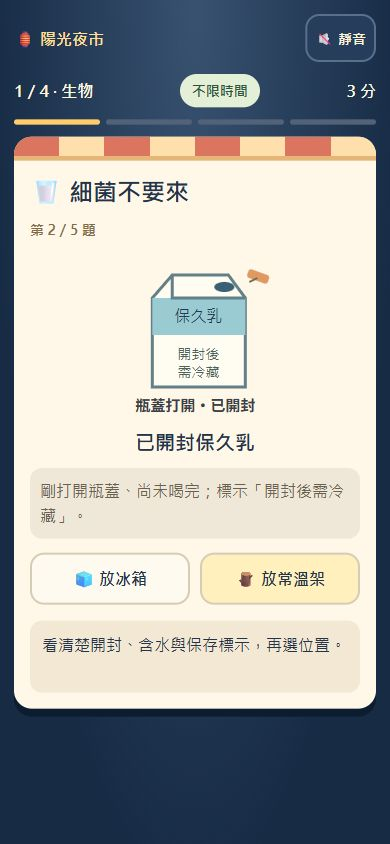
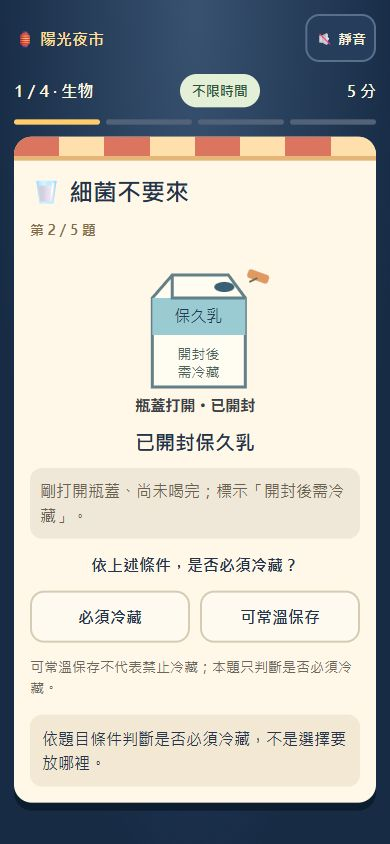
fix: ask whether foods require refrigeration rather than storage location

Changed region(s): [[0.0308, 0.6469, 0.9846, 0.955], [0.8923, 0.0924, 0.9231, 0.1232]]

diff --git a/src/data.js b/src/data.js
@@ -1,10 +1,10 @@
 export const stages = [
- {name:'細菌不要來',subject:'生物',icon:'🥛',tip:'同一種食物，開封、泡發後的保存方式可能不同。低溫能減緩細菌繁殖，不保證滅菌！',questions:[
- {name:'未開封保久乳',art:'milk-sealed',condition:'包裝完整、未開封；產品標示「可常溫保存」。',answer:'shelf',hint:'這盒保久乳經適當處理且包裝完整，標示允許未開封常溫保存。'},
- {name:'已開封保久乳',art:'milk-open',condition:'剛打開瓶蓋、尚未喝完；標示「開封後需冷藏」。',answer:'cold',hint:'保久乳開封後，原本的常溫保存條件已改變，請依標示冷藏。'},
- {name:'未開封乾香菇',art:'mushroom-dry',condition:'香菇乾燥、密封袋完整；標示「存放陰涼乾燥處」。',answer:'shelf',hint:'保持乾燥且密封完整的乾香菇，可依標示放在陰涼乾燥的常溫架。'},
- {name:'泡發後香菇',art:'mushroom-soaked',condition:'已泡水、瀝乾放入備料盒；暫不烹調，預計稍後使用。',answer:'cold',hint:'乾香菇泡發後含水量增加，暫不使用時應冷藏並儘快烹調。'},
- {name:'切開的西瓜',art:'watermelon-cut',condition:'已切成數片，切面覆蓋保鮮膜；暫不食用。',answer:'cold',hint:'切開後即使覆膜，仍需要冷藏並儘快食用，覆膜不等於滅菌。'}
+ {name:'細菌不要來',subject:'生物',icon:'🥛',tip:'開封、泡發後，是否必須冷藏可能不同。依保存條件判斷；低溫能減緩細菌繁殖，不保證滅菌！',questions:[
+ {name:'未開封保久乳',art:'milk-sealed',condition:'包裝完整、未開封；產品標示「可常溫保存」。',answer:'room-ok',hint:'這盒保久乳不必冷藏也可依標示保存。選「可常溫保存」；這不代表放冰箱就是錯誤。'},
+ {name:'已開封保久乳',art:'milk-open',condition:'剛打開瓶蓋、尚未喝完；標示「開封後需冷藏」。',answer:'required',hint:'開封後，原本可常溫保存的條件已改變；依這盒產品標示，必須冷藏。'},
+ {name:'未開封乾香菇',art:'mushroom-dry',condition:'香菇乾燥、密封袋完整；標示「存放陰涼乾燥處」。',answer:'room-ok',hint:'這袋乾香菇依標示可存放陰涼乾燥處，沒有必須冷藏的條件；不是判斷能不能放冰箱。'},
+ {name:'泡發後香菇',art:'mushroom-soaked',condition:'已泡水、瀝乾放入備料盒；暫不烹調，預計稍後使用。',answer:'required',hint:'泡發後含水量增加，這份暫不烹調的香菇需要冷藏，並儘快烹調。'},
+ {name:'切開的西瓜',art:'watermelon-cut',condition:'已切成數片，切面覆蓋保鮮膜；暫不食用。',answer:'required',hint:'這份切片西瓜暫不食用，需要冷藏並儘快食用；覆膜不等於滅菌。'}
  ].map(q=>({...q,first:5,retry:3}))},
  {name:'槓桿大力士',subject:'物理',icon:'📦',tip:'移動支點，比較兩邊力矩。相等是平衡，也能通過挑戰；施力力矩較大才會抬起貨箱。',questions:[
  {mass:12,force:6,length:6,first:5,retry:3}, {mass:18,force:6,length:8,first:10,retry:5}, {mass:10,force:6,length:8,first:10,retry:5}]},

diff --git a/src/app.js b/src/app.js
@@ -38,7 +38,7 @@ function leverNumbers(q, pivot) {
 
 function tutorial(s) {
   let scene = '';
-  if (game.stage === 0) scene = `<div class="tutorial-food">${foodArt(stages[0].questions[0])}</div><p>看包裝、看狀態，再決定保存位置。</p>`;
+  if (game.stage === 0) scene = `<div class="tutorial-food">${foodArt(stages[0].questions[0])}</div><p>看包裝與食物狀態，判斷是否必須冷藏。</p><p>「可常溫保存」不代表「不能冷藏」。<br>這裡判斷的是冷藏的必要性。</p>`;
   if (game.stage === 1) scene = `<div class="lever-demo">${leverDiagram({ mass: 12, force: 6, length: 6 }, 2, 'balance')}</div>
     <div class="math">6 × 4 = 24 kgf·m<br>12 × 2 = 24 kgf·m</div><p>24＝24：力矩平衡，挑戰通過。<br>施力力矩較大：才會抬起貨箱。</p>`;
   if (game.stage === 2) scene = '<div class="paper-demo"><span class="paper blue to-red"></span> 遇酸 → 紅色<br><span class="paper red to-blue"></span> 遇鹼 → 藍色</div><p>中性：紅、藍試紙都維持原色</p>';
@@ -49,7 +49,7 @@ function tutorial(s) {
 }
 
 const planetClasses = { 水星: 'mercury', 金星: 'venus', 地球: 'earth', 火星: 'mars', 木星: 'jupiter', 土星: 'saturn', 天王星: 'uranus', 海王星: 'neptune' };
-const defaultHints = ['看清楚開封、含水與保存標示，再選位置。', '按左右移動支點，再按「用力！」測試。', '選試紙 → 點液體 → 判斷性質。', '點擊行星，發射科學光束！'];
+const defaultHints = ['依題目條件判斷是否必須冷藏，不是選擇要放哪裡。', '按左右移動支點，再按「用力！」測試。', '選試紙 → 點液體 → 判斷性質。', '點擊行星，發射科學光束！'];
 
 function feedback() {
   const success = ['feedback', 'practice-feedback'].includes(game.phase);
@@ -68,8 +68,10 @@ function play() {
   const heading = `<div class="question-line">${game.practicing ? '引導練習 · 不計分' : `第 ${game.question + 1}／${s.questions.length} 題`}</div>`;
   let content = '';
   if (game.stage === 0) {
-    content = `<div class="food-scene ${locked ? `food-slide to-${q.answer}` : ''}">${foodArt(q)}<h2>${q.name}</h2><p class="food-condition">${q.condition}</p></div>
-      <div class="choices two">${button('🧊 放冰箱', 'cold', locked)}${button('🪵 放常溫架', 'shelf', locked)}</div>`;
+    content = `<div class="food-scene ${locked ? 'food-confirmed' : ''}">${foodArt(q)}<h2>${q.name}</h2><p class="food-condition">${q.condition}</p></div>
+      <p class="food-task"><strong>依上述條件，是否必須冷藏？</strong></p>
+      <div class="choices two">${button('必須冷藏', 'required', locked)}${button('可常溫保存', 'room-ok', locked)}</div>
+      <p class="science-note">可常溫保存不代表禁止冷藏；本題只判斷是否必須冷藏。</p>`;
   }
   if (game.stage === 1) {
     // Feedback and controls precede the longer explanation, so taps have a visible result.

diff --git a/test/game.test.js b/test/game.test.js
@@ -70,17 +70,17 @@ test('old 45/70/55/55 boundaries cannot advance unanswered questions', () => {
   const s = setup(); s.g.start(); s.g.begin();
   for (const ms of [45000, 70000, 55000, 55000, 1000000]) s.advance(ms);
   assert.equal(s.g.stage, 0); assert.equal(s.g.question, 0); assert.equal(s.g.score, 0);
-  assert.equal(s.g.answer('shelf'), true); assert.equal(s.g.score, 5);
+  assert.equal(s.g.answer('room-ok'), true); assert.equal(s.g.score, 5);
   s.advance(750); assert.equal(s.g.question, 0); s.g.next(); assert.equal(s.g.question, 1);
 });
 
 test('no answering before explicit tutorial start; queued animation click cannot answer next question', () => {
   const s = setup(); s.g.start();
-  assert.equal(s.g.answer('shelf'), false);
+  assert.equal(s.g.answer('room-ok'), false);
   s.g.begin(); solve(s);
   // Clock advances without a render tick. Old feedback click must still be rejected.
-  let time = 0; const g = new Game(() => time); g.start(); g.begin(); g.answer('shelf'); time = 750;
-  assert.equal(g.answer('cold'), false); assert.equal(g.question, 0); assert.equal(g.score, 5);
+  let time = 0; const g = new Game(() => time); g.start(); g.begin(); g.answer('room-ok'); time = 750;
+  assert.equal(g.answer('required'), false); assert.equal(g.question, 0); assert.equal(g.score, 5);
   g.next(); assert.equal(g.question, 1);
 });
 
@@ -132,7 +132,7 @@ for (const [score, tier] of [[0, 'learner'], [59, 'learner'], [60, 'master'], [7
   assert.equal(medal(score).tier, tier); assert.equal(score >= 60, tier !== 'learner');
 });
 test('new food bank contrasts sealed/opened and dry/soaked with five distinct labeled SVGs', () => {
-  assert.deepEqual(stages[0].questions.map(q => q.answer), ['shelf', 'cold', 'shelf', 'cold', 'cold']);
+  assert.deepEqual(stages[0].questions.map(q => q.answer), ['room-ok', 'required', 'room-ok', 'required', 'required']);
   const drawings = stages[0].questions.map(q => foodArt(q));
   assert.equal(new Set(drawings).size, 5);
   for (const [i, q] of stages[0].questions.entries()) {
@@ -147,7 +147,7 @@ test('planet bank unique choices and each stage maximum is 25', () => {
 });
 
 test('accepted feedback waits indefinitely for next and early/double next cannot skip questions', () => {
-  const s = setup(); s.g.start(); s.g.begin(); s.g.answer('shelf');
+  const s = setup(); s.g.start(); s.g.begin(); s.g.answer('room-ok');
   assert.equal(s.g.next(), false); assert.equal(s.g.question, 0);
   s.advance(86400000); assert.equal(s.g.phase, 'feedback'); assert.equal(s.g.question, 0);
   assert.equal(s.g.next(), true); assert.equal(s.g.question, 1);

diff --git a/src/style.css b/src/style.css
@@ -11,8 +11,8 @@
 .food-condition{background:#efe8d8;border-radius:12px;padding:10px;text-align:left}
 .food-scene{padding:0}
 .food-scene h2{margin-bottom:10px}
-.food-slide .food-art{animation:foodRight .75s forwards}
-.food-slide.to-cold .food-art{animation:foodLeft .75s forwards}
+.food-confirmed .food-art{animation:answerNotice .3s ease-out}
+.food-task{text-align:center;margin:12px 0 4px}
 .pivot-position{font-size:14px;text-align:center;color:#4d675b;margin:10px 0}
 .stall-1 .feedback{margin:8px 0;min-height:60px}
 .stall-1 .wide{margin:4px 0 8px}

diff --git a/TEST_REPORT.md b/TEST_REPORT.md
@@ -1,80 +1,62 @@
-# V6.1 最新測試報告
+# V6.1 最新測試報告：食品冷藏必要性語意修正
 
-日期：2026-10-20（臺灣時間）。Windows、Node.js v22.16.0、Codex 內建瀏覽器；分支 codex/sunshine-v6。V6.0 的舊測試只供歷史參考，存於 docs/TEST_REPORT_V6.0_ARCHIVE.md。
+日期：2026-10-20（臺灣時間）。Windows、Node.js v22.16.0、Codex 內建瀏覽器。分支 codex/sunshine-v6。
 
-## 本輪需求與實作
+## 獨立審查發現與修正
 
-- 移除整場與各關的強制計時、逾時結算、自動換關。教學由玩家開始、正確結果按下一題才前進；遊戲時間只用於短暫動畫鎖定。
-- 平衡通過，但文字與圖像不宣稱已抬起；施力力矩大於抗力才抬起。更新為練習及三題皆有整數平衡解。
-- 食品改為較細的保存情境，五題各 5 分／重試 3 分；五張專用 SVG 不用泛用 emoji 代替品項。
-- 使用者要求先自行打磨：已自行重現、修正並兩次完成最終版四關，不直接要求使用者代驗收。
+原題標示「可常溫保存」，卻讓玩家在「放冰箱／放常溫架」之間選擇；可常溫保存不代表不能冷藏，因此會把安全合理的放置選擇誤當科學錯誤。問題成立，前次自測未發現這個語意漏洞，不能據前次 100 分流程宣稱已通過科學驗收。
 
-## 槓桿問題重現與根因
+本輪食品任務改為「依上述條件，是否必須冷藏？」；所有五題使用「必須冷藏／可常溫保存」，回答的是冷藏必要性，不是實際放置地點。
 
-舊版瀏覽器實測：在練習中按用力失敗，將支點移到 2 m（6×4＝12×2＝24）再按用力，仍保留原失敗提示。平衡原被設計為不通過，重複失敗也不產生新狀態，沒有新的可見回饋。
+- 教學、主題提示、每題問題、兩個按鈕、預設回饋及錯誤解析全部同步。
+- 未開封保久乳與乾香菇均表達「不必冷藏」不等於「禁止冷藏」。
+- 已開封保久乳、泡發香菇、切片西瓜按明示情境需冷藏；不因產品品名概括所有狀態。
+- 成功圖像改為原地確認效果，不再飛向指定儲存位置，避免動畫繼續暗示兩個地點互斥。
+- GAME_SPEC.md、README、驗收、計畫、科學來源文件同步；舊報告存於 docs/TEST_REPORT_V6.1_BEFORE_FOOD_CLARIFICATION.md，不能取代本輪驗證。
 
-程式檢查另外發現：
+## 已執行成功
 
-1. 倒數每秒進入 render key，導致整個 app 內容替換。按鈕可能在按下與放開之間被替換，存在點擊遺失風險；本輪沒有宣稱已精確重現這個時間競爭。
-2. 舊失敗晃動綁在槓桿圖本身的 active 狀態，而不是用力按鈕的失敗結果，因此按用力不觸發預期晃動。
-3. 練習成功後立即重設支點並切換正式題，結果難以看清。
+### 邏輯、建置與程式檢查
 
-修正：取消倒數重繪；每次施力有 reaction；失敗用 insufficient 動畫；平衡用 balance 保持水平；大於用 lift；所有成功結果保留直到按繼續，回饋放在控制附近。
+- npm test：29 項全部通過，包含更新後 room-ok／required 題庫與全流程計分、首次 100／全重試54、單題防重複、不限時、手動下一題、槓桿三種比較、石蕊、獎章與重設。
+- npm run build：成功產生 dist 靜態檔案，無需第三方套件。
+- UI／題庫語法檢查與 git diff --check 通過。
 
-## 已執行成功：自動化與建置
+### 修正後完整瀏覽器流程
 
-`npm test`：29 項通過，0 失敗。
+- 食品五題依序回答「可常溫保存、必須冷藏、可常溫保存、必須冷藏、必須冷藏」，每題首次取得 5 分，生物合計 25。
+- 完成槓桿練習及三題正式平衡挑戰，累積 50；三題分別 24＝24、36＝36、30＝30。
+- 化學每題都實際選紅藍試紙、點液體觀察後作答，累積 75。
+- 地科三題完成至 100 分，顯示王者獎章與通過；重新挑戰回第一關教學、0 分。
+- 瀏覽器 error／warn 記錄為空。
 
-- 四關首次完成 100 分、全題曾答錯後完成 54 分；每關最多 25 分。
-- 每題回饋中重複作答 10 次不重複得分；錯誤 0 分，練習 0 分。
-- 各關教學與操作各閒置 24 小時，仍停原關原題；舊 45／70／55／55 秒界線不再推進。
-- 成功結果停留 24 小時不自動消失；過早下一題無效、雙次下一題不跳題。
-- 練習結果保留原支點、平衡不抬起、等於成功、失敗後平衡取重試分、反覆失敗有新 reaction。
-- 練習與三題每個有效整數支點都核對力臂總長、乘法及小於／等於／大於判定；每題都有平衡與抬起解；支點不越界。
-- 六種石蕊、所有獎章邊界、五張食品狀態圖、地科答案／四選項唯一性、重新開始清空狀態。
+### 食品語意與重試回歸
 
-`npm run build` 成功產生 dist；另執行 UI／引擎／題庫／食品向量語法檢查與 git diff --check。
+- 在 320×568 實際讀取教學及題面，明示問題是「是否必須冷藏」，兩個操作均為性質判斷，沒有「放冰箱／放常溫架」選項。
+- 未開封保久乳選「可常溫保存」首次得 5 分；乾香菇同樣首次得 5 分。
+- 另重玩：對未開封保久乳選「必須冷藏」（錯誤的必要性敘述）後，解析明示這不代表放冰箱就是錯誤；改選「可常溫保存」得 3 分。
+- 乾香菇同樣刻意先錯，解析說明沒有必須冷藏的條件，而非判定能不能放冰箱；重試雙擊正解只得一次 3 分，累積由 8 變 11，停在第三題成功結果，無跳題。
+- 五張食品圖仍對應包裝、開封、泡發及切片狀態；已逐題目視檢查新題面。
 
-## 已執行成功：最終版瀏覽器完整實玩
+### 本輪尺寸檢查
 
-### 路徑一：96 分（刻意重試）
+10 個畫面狀態 × 6 種尺寸，共60組。尺寸：320×568、360×800、375×812、390×844、430×932、1366×768。
 
-食品第一題先錯再對得 3 分，其他四題各 5 分，生物共 23。槓桿練習反覆施力失敗、左右移動後 24＝24 平衡通過，不計分；正式第一題先錯再以平衡成功得 3 分，第二題 42＞18 抬起得 10 分、第三題 30＝30 平衡得 10 分，累積 46。化學全部操作紅藍試紙後答對累積 71；地科三題完成結算 96 分、王者獎章、通過。
-
-實際在食品第一題停留 81 秒（超過舊 45 秒），仍為同題、0 分，可正常繼續。
-
-### 路徑二：100 分（全題首次成功）
-
-依序生物 25、槓桿含練習後累積 50、化學 75、地科結算 100。第二題平衡畫面實讀 6×6＝18×2＝36；第三題 6×5＝10×3＝30。成功後結果由玩家確認，結算不自動關閉。重新挑戰回到第一關教學、0 分。
-
-### 額外連點回歸
-
-實際雙擊食品正解，只得 5 分；雙擊下一題只前進到第 2 題，沒有跳題。實際雙擊練習施力、進正式挑戰、支點左移及正式施力；第一題只得 5 分，仍停在第一題成功結果，累積 30 分（生物25＋槓桿5）。反覆失敗可立即重按；成功後舊控制停用，下一題在短動畫後才啟用。
-
-### 六尺寸與圖文
-
-19 個狀態 × 6 種尺寸，共 114 組。尺寸：320×568、360×800、375×812、390×844、430×932、1366×768。
-
-- 水平溢出 0，操作按鈕不足 48×48 的情形 0。
-- 狀態涵蓋五張食品、四關教學（生物教學以 restart 同畫面）、練習、三道槓桿正式題、平衡／抬起回饋、化學、地科、結算、重玩。
-- 已逐張目視檢查五種食品圖文，開封瓶蓋、密封袋、泡發備料盒、西瓜切面及覆膜清楚對應。
-- 已目視平衡與結果截圖。短畫面允許垂直捲動，沒有必要拖曳。
-- 最後一輪瀏覽器 error／warn 紀錄為空。
+狀態包含五張食品、槓桿、化學、地科、結算及乾貨錯誤解析。水平溢出0，操作按鈕低於48×48的情形0。短螢幕可垂直捲動，主要內容與選項可完整看到。
 
 ## 證據
 
-- docs/qa/layout-checks.jsonl：114 組原始尺寸與按鈕量測。
-- docs/qa/lever-balance.jpg：24＝24、水平槓桿、練習不計分、繼續按鈕。
-- docs/qa/opened-milk.jpg：已開封保久乳圖文；食品畫面在打磨後保持相同圖文。
-- docs/qa/result-100.jpg：最終版完整四關 100 分結算。
-- test-artifacts/ 另有 96 分及五種食品畫面，本機暫存不屬必要執行檔。
+- docs/qa/food-task.jpg：新問題、必要性選項與非禁止冷藏說明。
+- docs/qa/opened-milk.jpg：已開封保久乳的完整新題面。
+- docs/qa/dry-food-explanation.jpg：乾香菇的必要性錯誤解析。
+- docs/qa/food-task-layout.jsonl：本輪60組原始幾何量測。
+- docs/qa/result-100.jpg：本輪修正後四關完整實玩100分。
+- docs/qa/lever-balance.jpg、layout-checks.jsonl 屬前一輪槓桿／114組尺寸檢查，見歷史報告，不冒充本輪新食品語意證據。
 
-## 預覽與限制
+## 限制與交接狀態
 
-預覽保留於本機背景程序，只監聽 127.0.0.1:5173。最終 HTTP 實測 200，首頁與 app.js 均確認載入 V6.1／不限時間內容；監聽位址實讀為 127.0.0.1、程序 PID 25732。瀏覽器已重載確認可用，不會在結束時停止服務。
+未實測 iPhone Safari／Android Chrome 真機、觸控硬體、有聲播放政策或真機安全區。瀏覽器點擊與尺寸模擬不等同真機。
 
-未執行 iPhone Safari／Android Chrome 真機、硬體觸控、有聲播放政策、真機底部工具列與安全區測試。實測瀏覽器點擊與手機尺寸不等同真機驗證。24 小時由注入時鐘驗證，不是實際等待 24 小時。不限時 81 秒則確實在瀏覽器經過。跨聊天獨立審查尚未算完成。
+不限時、槓桿及完整四關已自行重測；本次科學語意問題已修正，仍待協作聊天獨立再審查，不宣稱獨立驗收已通過，也不請使用者代試。
 
-## 判定
-
-本輪修改、邏輯與完整瀏覽器流程已自行驗證；保留可供獨立審查的候選版。未宣稱真機或校慶最終環境已通過。
+本機背景預覽保留 127.0.0.1:5173；不公開部署、不改權限，結束前再確認 HTTP 及新版瀏覽器載入。

diff --git a/docs/TEST_REPORT_V6.1_BEFORE_FOOD_CLARIFICATION.md b/docs/TEST_REPORT_V6.1_BEFORE_FOOD_CLARIFICATION.md
@@ -1,0 +1,80 @@
+# V6.1 最新測試報告
+
+日期：2026-10-20（臺灣時間）。Windows、Node.js v22.16.0、Codex 內建瀏覽器；分支 codex/sunshine-v6。V6.0 的舊測試只供歷史參考，存於 docs/TEST_REPORT_V6.0_ARCHIVE.md。
+
+## 本輪需求與實作
+
+- 移除整場與各關的強制計時、逾時結算、自動換關。教學由玩家開始、正確結果按下一題才前進；遊戲時間只用於短暫動畫鎖定。
+- 平衡通過，但文字與圖像不宣稱已抬起；施力力矩大於抗力才抬起。更新為練習及三題皆有整數平衡解。
+- 食品改為較細的保存情境，五題各 5 分／重試 3 分；五張專用 SVG 不用泛用 emoji 代替品項。
+- 使用者要求先自行打磨：已自行重現、修正並兩次完成最終版四關，不直接要求使用者代驗收。
+
+## 槓桿問題重現與根因
+
+舊版瀏覽器實測：在練習中按用力失敗，將支點移到 2 m（6×4＝12×2＝24）再按用力，仍保留原失敗提示。平衡原被設計為不通過，重複失敗也不產生新狀態，沒有新的可見回饋。
+
+程式檢查另外發現：
+
+1. 倒數每秒進入 render key，導致整個 app 內容替換。按鈕可能在按下與放開之間被替換，存在點擊遺失風險；本輪沒有宣稱已精確重現這個時間競爭。
+2. 舊失敗晃動綁在槓桿圖本身的 active 狀態，而不是用力按鈕的失敗結果，因此按用力不觸發預期晃動。
+3. 練習成功後立即重設支點並切換正式題，結果難以看清。
+
+修正：取消倒數重繪；每次施力有 reaction；失敗用 insufficient 動畫；平衡用 balance 保持水平；大於用 lift；所有成功結果保留直到按繼續，回饋放在控制附近。
+
+## 已執行成功：自動化與建置
+
+`npm test`：29 項通過，0 失敗。
+
+- 四關首次完成 100 分、全題曾答錯後完成 54 分；每關最多 25 分。
+- 每題回饋中重複作答 10 次不重複得分；錯誤 0 分，練習 0 分。
+- 各關教學與操作各閒置 24 小時，仍停原關原題；舊 45／70／55／55 秒界線不再推進。
+- 成功結果停留 24 小時不自動消失；過早下一題無效、雙次下一題不跳題。
+- 練習結果保留原支點、平衡不抬起、等於成功、失敗後平衡取重試分、反覆失敗有新 reaction。
+- 練習與三題每個有效整數支點都核對力臂總長、乘法及小於／等於／大於判定；每題都有平衡與抬起解；支點不越界。
+- 六種石蕊、所有獎章邊界、五張食品狀態圖、地科答案／四選項唯一性、重新開始清空狀態。
+
+`npm run build` 成功產生 dist；另執行 UI／引擎／題庫／食品向量語法檢查與 git diff --check。
+
+## 已執行成功：最終版瀏覽器完整實玩
+
+### 路徑一：96 分（刻意重試）
+
+食品第一題先錯再對得 3 分，其他四題各 5 分，生物共 23。槓桿練習反覆施力失敗、左右移動後 24＝24 平衡通過，不計分；正式第一題先錯再以平衡成功得 3 分，第二題 42＞18 抬起得 10 分、第三題 30＝30 平衡得 10 分，累積 46。化學全部操作紅藍試紙後答對累積 71；地科三題完成結算 96 分、王者獎章、通過。
+
+實際在食品第一題停留 81 秒（超過舊 45 秒），仍為同題、0 分，可正常繼續。
+
+### 路徑二：100 分（全題首次成功）
+
+依序生物 25、槓桿含練習後累積 50、化學 75、地科結算 100。第二題平衡畫面實讀 6×6＝18×2＝36；第三題 6×5＝10×3＝30。成功後結果由玩家確認，結算不自動關閉。重新挑戰回到第一關教學、0 分。
+
+### 額外連點回歸
+
+實際雙擊食品正解，只得 5 分；雙擊下一題只前進到第 2 題，沒有跳題。實際雙擊練習施力、進正式挑戰、支點左移及正式施力；第一題只得 5 分，仍停在第一題成功結果，累積 30 分（生物25＋槓桿5）。反覆失敗可立即重按；成功後舊控制停用，下一題在短動畫後才啟用。
+
+### 六尺寸與圖文
+
+19 個狀態 × 6 種尺寸，共 114 組。尺寸：320×568、360×800、375×812、390×844、430×932、1366×768。
+
+- 水平溢出 0，操作按鈕不足 48×48 的情形 0。
+- 狀態涵蓋五張食品、四關教學（生物教學以 restart 同畫面）、練習、三道槓桿正式題、平衡／抬起回饋、化學、地科、結算、重玩。
+- 已逐張目視檢查五種食品圖文，開封瓶蓋、密封袋、泡發備料盒、西瓜切面及覆膜清楚對應。
+- 已目視平衡與結果截圖。短畫面允許垂直捲動，沒有必要拖曳。
+- 最後一輪瀏覽器 error／warn 紀錄為空。
+
+## 證據
+
+- docs/qa/layout-checks.jsonl：114 組原始尺寸與按鈕量測。
+- docs/qa/lever-balance.jpg：24＝24、水平槓桿、練習不計分、繼續按鈕。
+- docs/qa/opened-milk.jpg：已開封保久乳圖文；食品畫面在打磨後保持相同圖文。
+- docs/qa/result-100.jpg：最終版完整四關 100 分結算。
+- test-artifacts/ 另有 96 分及五種食品畫面，本機暫存不屬必要執行檔。
+
+## 預覽與限制
+
+預覽保留於本機背景程序，只監聽 127.0.0.1:5173。最終 HTTP 實測 200，首頁與 app.js 均確認載入 V6.1／不限時間內容；監聽位址實讀為 127.0.0.1、程序 PID 25732。瀏覽器已重載確認可用，不會在結束時停止服務。
+
+未執行 iPhone Safari／Android Chrome 真機、硬體觸控、有聲播放政策、真機底部工具列與安全區測試。實測瀏覽器點擊與手機尺寸不等同真機驗證。24 小時由注入時鐘驗證，不是實際等待 24 小時。不限時 81 秒則確實在瀏覽器經過。跨聊天獨立審查尚未算完成。
+
+## 判定
+
+本輪修改、邏輯與完整瀏覽器流程已自行驗證；保留可供獨立審查的候選版。未宣稱真機或校慶最終環境已通過。

diff --git a/GAME_SPEC.md b/GAME_SPEC.md
@@ -20,17 +20,17 @@
 
 ## 第一關：細菌不要來
 
-5 題、首次每題 5 分、曾答錯後成功每題 3 分。以開封、乾燥／泡發、包裝完整及保存標示判斷。
+5 題、首次每題 5 分、曾答錯後成功每題 3 分。任務明確為「依題目條件判斷是否必須冷藏」，按鈕為「必須冷藏／可常溫保存」。這不是放置地點的二選一；可常溫保存不代表禁止冷藏，不可將安全的冷藏操作誤判為科學錯誤。以開封、乾燥／泡發、包裝完整及保存標示判斷冷藏必要性。
 
 | 食品 | 明示條件 | 正解 | 對應圖像 |
 |---|---|---|---|
-| 未開封保久乳 | 包裝完整，標示可常溫保存 | 常溫架 | 封好瓶蓋的保久乳紙盒 |
-| 已開封保久乳 | 剛開封尚未喝完，標示開封後需冷藏 | 冰箱 | 同款紙盒、開口與移開的瓶蓋 |
-| 未開封乾香菇 | 乾燥、密封袋完整，標示陰涼乾燥保存 | 常溫架 | 密封袋中的乾香菇 |
-| 泡發後香菇 | 泡水後瀝乾，暫不烹調，預計稍後使用 | 冰箱 | 備料盒、泡發香菇與水滴 |
-| 切開的西瓜 | 已切片並覆膜，暫不食用 | 冰箱 | 西瓜切片、切面與透明保鮮膜 |
+| 未開封保久乳 | 包裝完整，標示可常溫保存 | 可常溫保存（非必須冷藏） | 封好瓶蓋的保久乳紙盒 |
+| 已開封保久乳 | 剛開封尚未喝完，標示開封後需冷藏 | 必須冷藏 | 同款紙盒、開口與移開的瓶蓋 |
+| 未開封乾香菇 | 乾燥、密封袋完整，標示陰涼乾燥保存 | 可常溫保存（非必須冷藏） | 密封袋中的乾香菇 |
+| 泡發後香菇 | 泡水後瀝乾，暫不烹調，預計稍後使用 | 必須冷藏 | 備料盒、泡發香菇與水滴 |
+| 切開的西瓜 | 已切片並覆膜，暫不食用 | 必須冷藏 | 西瓜切片、切面與透明保鮮膜 |
 
-食品圖像採專用本機 SVG，不能使用泛用 emoji 代替題目圖。題面顯示條件，答錯才給解析。低溫可減緩細菌繁殖，不保證滅菌；覆膜不等於滅菌；冷藏後仍應儘快食用／烹調。科學參考見 SCIENCE_SOURCES.md。
+食品圖像採專用本機 SVG，不能使用泛用 emoji 代替題目圖。每題顯示「是否必須冷藏？」及條件；答錯解析要區分「必須冷藏」與「可以選擇冷藏」，不得用「放冰箱錯了」或「只能放常溫」等誤導語句。正確回饋不播放食品移往指定位置的動畫，避免暗示另一位置被禁止。低溫可減緩細菌繁殖，不保證滅菌；覆膜不等於滅菌；冷藏後仍應儘快食用／烹調。科學參考見 SCIENCE_SOURCES.md。
 
 ## 第二關：槓桿大力士
 

diff --git a/README.md b/README.md
@@ -1,6 +1,6 @@
 # 陽光夜市 Sunshine Night Market — V6.1
 
-繁體中文、手機優先的 HTML5 科學遊戲。不限時間，依序完成食品保存、槓桿、紅藍石蕊、太陽系四關，滿分 100、60 分通過，每位玩家都有電子獎章。無登入、無資料庫、無外部 CDN、不收集個資，預設靜音。
+繁體中文、手機優先的 HTML5 科學遊戲。不限時間，依序完成食品冷藏必要性、槓桿、紅藍石蕊、太陽系四關，滿分 100、60 分通過，每位玩家都有電子獎章。無登入、無資料庫、無外部 CDN、不收集個資，預設靜音。
 
 ## 本機啟動
 
@@ -22,7 +22,7 @@ node scripts/serve.mjs --dist
 
 ## 教師試玩
 
-在這台電腦啟動本機服務，以瀏覽器開啟網址，點「開始挑戰」。每關先看教學，再按準備好了開始，不會倒數或自動跳關。槓桿先有一次不計分練習；力矩平衡也通過，但只有施力力矩較大才會抬起。所有關卡答錯可重試，成功結果由玩家按下一題繼續。完成後可截圖獎章，點「重新挑戰」重設。
+在這台電腦啟動本機服務，以瀏覽器開啟網址，點「開始挑戰」。食品關回答「是否必須冷藏」，不是選放置地點；可常溫保存不代表不能冷藏。每關先看教學，再按準備好了開始，不會倒數或自動跳關。槓桿先有一次不計分練習；力矩平衡也通過，但只有施力力矩較大才會抬起。所有關卡答錯可重試，成功結果由玩家按下一題繼續。完成後可截圖獎章，點「重新挑戰」重設。
 
 使用瀏覽器裝置模擬可試 320～430 px 直式畫面。此網址不能直接從手機開啟；實際手機測試需另行安排經授權的網路預覽或靜態網站環境。本次沒有公開部署。
 

diff --git a/ACCEPTANCE_TESTS.md b/ACCEPTANCE_TESTS.md
@@ -6,7 +6,7 @@
 - 不限時：任何教學、未完成題目及結果任意停留，不倒數、不逾時、不自動結算／換關；已完成題目按下一題才前進。
 - 計分：每關最多 25，總分最多 100；生物首次每題 5、重試 3；其餘首次 5／10／10，重試 3／5／5；錯誤 0、練習 0、每題僅計一次。
 - 防重複：施力與作答回饋期間停用舊操作；短動畫結束後才能按下一題，雙擊下一題不跳過題目。
-- 食品：五種狀態逐張圖文比對、保存條件清楚；未開封保久乳／乾香菇常溫，已開封保久乳／泡發香菇／切片西瓜冷藏。解析在答錯後出現，不直接在題面洩漏推理。
+- 食品：五種狀態逐張圖文比對、保存條件清楚；問題及按鈕明確判斷是否必須冷藏：未開封保久乳／乾香菇為「可常溫保存」，已開封保久乳／泡發香菇／切片西瓜為「必須冷藏」。不再出現放冰箱／放常溫架的互斥地點選項；常溫允許不等於禁止冷藏。解析在答錯後出現，不直接在題面洩漏推理。
 - 槓桿：教學與練習不造成假性無反應；左右鍵連續操作、範圍限制、m 與 kg／kgf／kgf·m 正確；每次施力有回饋。
 - 槓桿比較：小於不通過且重試；等於通過並保持水平、文字為力矩平衡；大於通過才抬箱。各題有等於與大於解，畫面數字和判定一致。
 - 石蕊：所有六種結果正確、單張不變色非必然中性、兩張可重複使用不影響分數。

diff --git a/SCIENCE_SOURCES.md b/SCIENCE_SOURCES.md
@@ -1,6 +1,6 @@
 # V6.1 食品題科學參考
 
-2026-10-20 核對官方資料；只保存引用連結，遊戲執行不載入網站。題目按明示保存條件判斷，並不涵蓋所有產品。
+2026-10-20 核對官方資料；只保存引用連結，遊戲執行不載入網站。題目按明示保存條件判斷「是否必須冷藏」，不在冷藏與常溫位置間強迫互斥選擇，也不涵蓋所有產品。可常溫保存不代表禁止冷藏；實際操作仍依產品標示與適當保存條件。
 
 - [食藥署：保久乳與鮮奶保存差異](https://www.fda.gov.tw/TC/newsContent.aspx?cid=5049&id=28234)：保久乳可常溫保存源於處理及包裝方式。本遊戲另外明示未開封可常溫、開封後需冷藏的產品標示，避免以品名概括全部保存條件。
 - [香港食物安全中心：食物安全廣播站第94期，浸泡菇類與食物安全、乾貨貯存](https://www.cfs.gov.hk/tc_chi/multimedia/multimedia_pub/multimedia_pub_fse_202303.html)：泡發增加含水量，過久室溫停留有風險；已泡發應儘快烹調，需較長保存應冷藏；無需冷藏的乾貨放陰涼乾燥處。遊戲採暫不烹調時冷藏的保存選擇，不把室溫泡發或已變質食材當安全題。

diff --git a/IMPLEMENTATION_PLAN.md b/IMPLEMENTATION_PLAN.md
@@ -26,3 +26,7 @@
 ## 已完成自測
 
 29 項單元測試、正式建置、最終版 96 分與 100 分完整實玩、實際雙擊回歸、19 狀態×6尺寸共114組檢查均通過。原始尺寸記錄與精選畫面已保存於 docs/qa/。本機服務保留供獨立審查，真機與外部審查未宣稱通過。
+
+## 食品任務語意修正
+
+獨立審查發現「可常溫保存」不排除冷藏，舊地點二選一有錯罰安全選擇的語意。改為冷藏必要性分類：required／room-ok，對應「必須冷藏／可常溫保存」。同步教學、逐題提示、預設提示及規格，移除移往特定位置的成功動畫；原圖像仍精準表示食品狀態。此問題修正後重新自行實玩再交獨立審查。

diff --git a/KNOWN_ISSUES.md b/KNOWN_ISSUES.md
@@ -10,3 +10,5 @@
 - 跨聊天獨立審查尚未由本聊天宣稱完成；使用者要求先自行打磨，目前會先回報具體自測證據。
 
 V6.0 的強制逾時與平衡不通過已依最新要求移除，不能再以舊版報告當現行驗收依據。
+
+本輪獨立審查發現的食品地點選項語意漏洞已改為「冷藏必要性」問題，並完成自行實玩；獨立再驗收尚未完成，不以修正完成等同審查通過。
